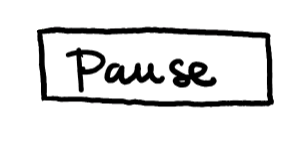
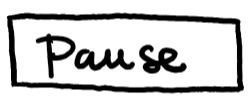
fixed timer box shifting when logged in; fixed start button to be similar size as other buttons

diff --git a/client/static/css/index.css b/client/static/css/index.css
@@ -184,13 +184,13 @@ body {
     border: 2px solid gray;
     height: 150px;
     width: 400px;
-    top: -20px;
+    top: 10px;
     left: calc(50% - 200px);
     background-color: #FAFAFA;
     font-size: 20px;
     text-align: center;
     padding-top: 10px;
-    position: relative;
+    position: fixed;
   }
 
   #login-button {
